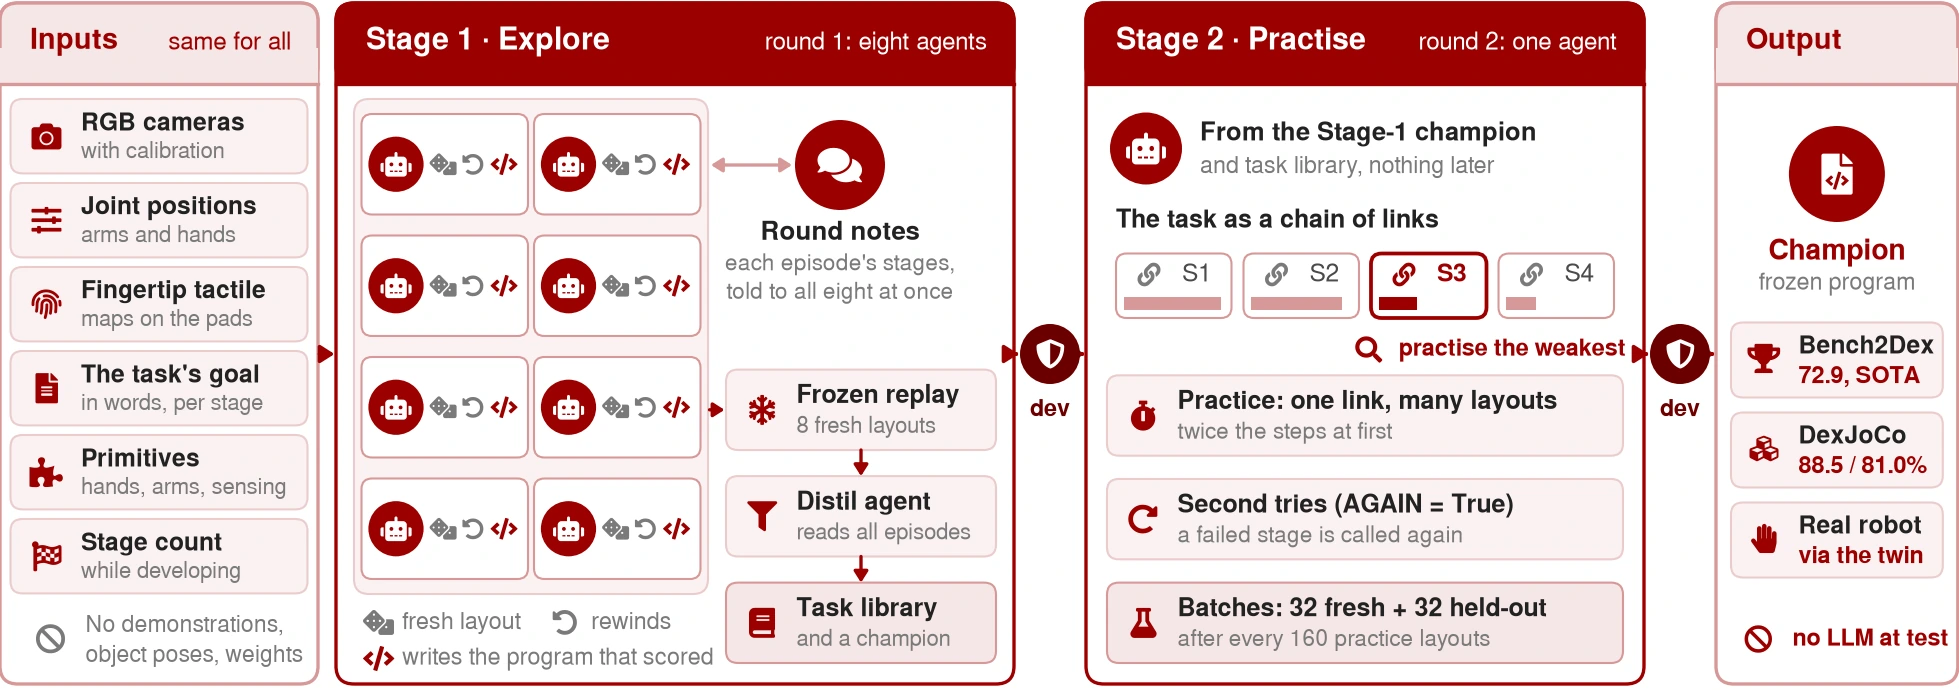
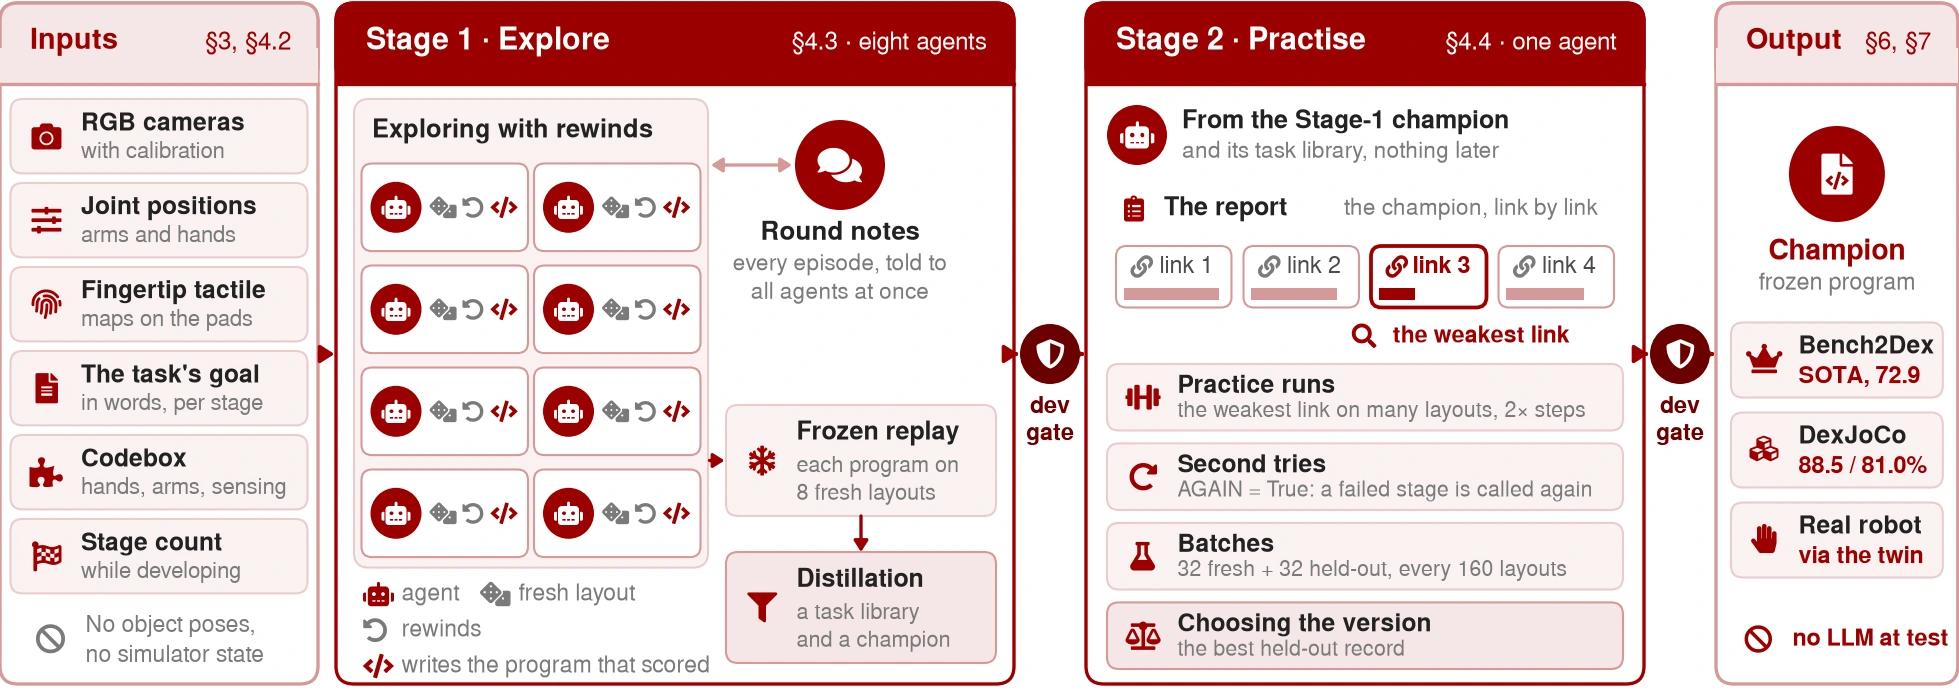
Deploying to gh-pages from @ vme0522/vme0522.github.io@140af1708d9b682ef3aa099a983bce7b14fc9920 🚀

diff --git a/blog/2024/tabs/index.html b/blog/2024/tabs/index.html
@@ -17,16 +17,16 @@ Content 2
 <span class="cp">{%</span><span class="w"> </span><span class="nt">endtab</span><span class="w"> </span><span class="cp">%}</span>
 
 <span class="cp">{%</span><span class="w"> </span><span class="nt">endtabs</span><span class="w"> </span><span class="cp">%}</span>
-</code></pre></div></div> <p>With this you can generate visualizations like:</p> <ul id="log" class="tab" data-tab="9b17acdc-4963-412e-af19-0ab262963fe4" data-name="log"> <li class="active" id="log-php"> <a href="#">php </a> </li> <li id="log-js"> <a href="#">js </a> </li> <li id="log-ruby"> <a href="#">ruby </a> </li> </ul> <ul class="tab-content" id="9b17acdc-4963-412e-af19-0ab262963fe4" data-name="log"> <li class="active"> <div class="language-php highlighter-rouge"><div class="highlight"><pre class="highlight"><code><span class="nb">var_dump</span><span class="p">(</span><span class="s1">'hello'</span><span class="p">);</span>
+</code></pre></div></div> <p>With this you can generate visualizations like:</p> <ul id="log" class="tab" data-tab="36b4afe7-2373-40aa-8585-77688bcb33ed" data-name="log"> <li class="active" id="log-php"> <a href="#">php </a> </li> <li id="log-js"> <a href="#">js </a> </li> <li id="log-ruby"> <a href="#">ruby </a> </li> </ul> <ul class="tab-content" id="36b4afe7-2373-40aa-8585-77688bcb33ed" data-name="log"> <li class="active"> <div class="language-php highlighter-rouge"><div class="highlight"><pre class="highlight"><code><span class="nb">var_dump</span><span class="p">(</span><span class="s1">'hello'</span><span class="p">);</span>
 </code></pre></div></div> </li> <li> <div class="language-javascript highlighter-rouge"><div class="highlight"><pre class="highlight"><code><span class="nx">console</span><span class="p">.</span><span class="nf">log</span><span class="p">(</span><span class="dl">"</span><span class="s2">hello</span><span class="dl">"</span><span class="p">);</span>
 </code></pre></div></div> </li> <li> <div class="language-javascript highlighter-rouge"><div class="highlight"><pre class="highlight"><code><span class="nx">pputs</span> <span class="dl">'</span><span class="s1">hello</span><span class="dl">'</span>
-</code></pre></div></div> </li> </ul> <h2 id="another-example">Another example</h2> <ul id="data-struct" class="tab" data-tab="8a59ad11-cd54-4203-ae6b-2c7b11370567" data-name="data-struct"> <li class="active" id="data-struct-yaml"> <a href="#">yaml </a> </li> <li id="data-struct-json"> <a href="#">json </a> </li> </ul> <ul class="tab-content" id="8a59ad11-cd54-4203-ae6b-2c7b11370567" data-name="data-struct"> <li class="active"> <div class="language-yaml highlighter-rouge"><div class="highlight"><pre class="highlight"><code><span class="na">hello</span><span class="pi">:</span>
+</code></pre></div></div> </li> </ul> <h2 id="another-example">Another example</h2> <ul id="data-struct" class="tab" data-tab="f9746e25-7c31-486e-bc2a-90c411123d5d" data-name="data-struct"> <li class="active" id="data-struct-yaml"> <a href="#">yaml </a> </li> <li id="data-struct-json"> <a href="#">json </a> </li> </ul> <ul class="tab-content" id="f9746e25-7c31-486e-bc2a-90c411123d5d" data-name="data-struct"> <li class="active"> <div class="language-yaml highlighter-rouge"><div class="highlight"><pre class="highlight"><code><span class="na">hello</span><span class="pi">:</span>
   <span class="pi">-</span> <span class="s2">"</span><span class="s">whatsup"</span>
   <span class="pi">-</span> <span class="s2">"</span><span class="s">hi"</span>
 </code></pre></div></div> </li> <li> <div class="language-json highlighter-rouge"><div class="highlight"><pre class="highlight"><code><span class="p">{</span><span class="w">
   </span><span class="nl">"hello"</span><span class="p">:</span><span class="w"> </span><span class="p">[</span><span class="s2">"whatsup"</span><span class="p">,</span><span class="w"> </span><span class="s2">"hi"</span><span class="p">]</span><span class="w">
 </span><span class="p">}</span><span class="w">
-</span></code></pre></div></div> </li> </ul> <h2 id="tabs-for-something-else">Tabs for something else</h2> <ul id="something-else" class="tab" data-tab="d1dd1db1-046a-4527-8284-c4e4a0ee7917" data-name="something-else"> <li class="active" id="something-else-text"> <a href="#">text </a> </li> <li id="something-else-quote"> <a href="#">quote </a> </li> <li id="something-else-list"> <a href="#">list </a> </li> </ul> <ul class="tab-content" id="d1dd1db1-046a-4527-8284-c4e4a0ee7917" data-name="something-else"> <li class="active"> <p>Regular text</p> </li> <li> <blockquote> <p>A quote</p> </blockquote> </li> <li> <p>Hipster list</p> <ul> <li>brunch</li> <li>fixie</li> <li>raybans</li> <li>messenger bag</li> </ul> </li> </ul> </div> </article> <br> <hr> <br> <h2 class="text-3xl font-semibold mb-4 mt-12">Enjoy Reading This Article?</h2> <p class="mb-2">Here are some more articles you might like to read next:</p> <ul class="list-disc pl-7 my-3 space-y-2 marker:text-[var(--global-theme-color)]"> <li class="leading-relaxed"> <a class="underline decoration-1 hover:text-[var(--global-hover-color)]" href="https://blog.google/technology/ai/google-gemini-update-flash-ai-assistant-io-2024/" target="_blank" rel="noopener noreferrer">Google Gemini updates: Flash 1.5, Gemma 2 and Project Astra</a> <svg width="1rem" height="1rem" viewbox="0 0 30 30" xmlns="http://www.w3.org/2000/svg" aria-hidden="true"> <path d="M17 13.5v6H5v-12h6m3-3h6v6m0-6-9 9" class="icon_svg-stroke" stroke="#999" stroke-width="1.5" fill="none" fill-rule="evenodd" stroke-linecap="round" stroke-linejoin="round"></path> </svg> </li> <li class="leading-relaxed"> <a class="underline decoration-1 hover:text-[var(--global-hover-color)]" href="https://medium.com/@al-folio/displaying-external-posts-on-your-al-folio-blog-b60a1d241a0a?source=rss-17feae71c3c4------2" target="_blank" rel="noopener noreferrer">Displaying External Posts on Your al-folio Blog</a> <svg width="1rem" height="1rem" viewbox="0 0 30 30" xmlns="http://www.w3.org/2000/svg" aria-hidden="true"> <path d="M17 13.5v6H5v-12h6m3-3h6v6m0-6-9 9" class="icon_svg-stroke" stroke="#999" stroke-width="1.5" fill="none" fill-rule="evenodd" stroke-linecap="round" stroke-linejoin="round"></path> </svg> </li> <li class="leading-relaxed"> <a class="underline decoration-1 hover:text-[var(--global-hover-color)]" href="/blog/2025/marimo/">a post with marimo snippets</a> </li> <li class="leading-relaxed"> <a class="underline decoration-1 hover:text-[var(--global-hover-color)]" href="/blog/2025/plotly/">a post with plotly.js</a> </li> <li class="leading-relaxed"> <a class="underline decoration-1 hover:text-[var(--global-hover-color)]" href="/blog/2024/photo-gallery/">a post with image galleries</a> </li> <li class="leading-relaxed"> <a class="underline decoration-1 hover:text-[var(--global-hover-color)]" href="/blog/2024/typograms/">a post with typograms</a> </li> <li class="leading-relaxed"> <a class="underline decoration-1 hover:text-[var(--global-hover-color)]" href="/blog/2024/post-citation/">a post that can be cited</a> </li> <li class="leading-relaxed"> <a class="underline decoration-1 hover:text-[var(--global-hover-color)]" href="/blog/2024/pseudocode/">a post with pseudo code</a> </li> <li class="leading-relaxed"> <a class="underline decoration-1 hover:text-[var(--global-hover-color)]" href="/blog/2024/code-diff/">a post with code diff</a> </li> <li class="leading-relaxed"> <a class="underline decoration-1 hover:text-[var(--global-hover-color)]" href="/blog/2024/advanced-images/">a post with advanced image components</a> </li> </ul> </div> </div> <footer class="sticky-bottom mt-5" role="contentinfo"> <div class="container"> © Copyright 2026 Feixiang Ruan. Powered by <a href="https://jekyllrb.com/" target="_blank" rel="external nofollow noopener">Jekyll</a> with <a href="https://github.com/alshedivat/al-folio" rel="external nofollow noopener" target="_blank">al-folio</a>. Hosted by <a href="https://pages.github.com/" target="_blank" rel="external nofollow noopener">GitHub Pages</a>. </div> </footer> <script>
+</span></code></pre></div></div> </li> </ul> <h2 id="tabs-for-something-else">Tabs for something else</h2> <ul id="something-else" class="tab" data-tab="193bee96-5826-4f5b-9a32-575b445bbc2a" data-name="something-else"> <li class="active" id="something-else-text"> <a href="#">text </a> </li> <li id="something-else-quote"> <a href="#">quote </a> </li> <li id="something-else-list"> <a href="#">list </a> </li> </ul> <ul class="tab-content" id="193bee96-5826-4f5b-9a32-575b445bbc2a" data-name="something-else"> <li class="active"> <p>Regular text</p> </li> <li> <blockquote> <p>A quote</p> </blockquote> </li> <li> <p>Hipster list</p> <ul> <li>brunch</li> <li>fixie</li> <li>raybans</li> <li>messenger bag</li> </ul> </li> </ul> </div> </article> <br> <hr> <br> <h2 class="text-3xl font-semibold mb-4 mt-12">Enjoy Reading This Article?</h2> <p class="mb-2">Here are some more articles you might like to read next:</p> <ul class="list-disc pl-7 my-3 space-y-2 marker:text-[var(--global-theme-color)]"> <li class="leading-relaxed"> <a class="underline decoration-1 hover:text-[var(--global-hover-color)]" href="https://blog.google/technology/ai/google-gemini-update-flash-ai-assistant-io-2024/" target="_blank" rel="noopener noreferrer">Google Gemini updates: Flash 1.5, Gemma 2 and Project Astra</a> <svg width="1rem" height="1rem" viewbox="0 0 30 30" xmlns="http://www.w3.org/2000/svg" aria-hidden="true"> <path d="M17 13.5v6H5v-12h6m3-3h6v6m0-6-9 9" class="icon_svg-stroke" stroke="#999" stroke-width="1.5" fill="none" fill-rule="evenodd" stroke-linecap="round" stroke-linejoin="round"></path> </svg> </li> <li class="leading-relaxed"> <a class="underline decoration-1 hover:text-[var(--global-hover-color)]" href="https://medium.com/@al-folio/displaying-external-posts-on-your-al-folio-blog-b60a1d241a0a?source=rss-17feae71c3c4------2" target="_blank" rel="noopener noreferrer">Displaying External Posts on Your al-folio Blog</a> <svg width="1rem" height="1rem" viewbox="0 0 30 30" xmlns="http://www.w3.org/2000/svg" aria-hidden="true"> <path d="M17 13.5v6H5v-12h6m3-3h6v6m0-6-9 9" class="icon_svg-stroke" stroke="#999" stroke-width="1.5" fill="none" fill-rule="evenodd" stroke-linecap="round" stroke-linejoin="round"></path> </svg> </li> <li class="leading-relaxed"> <a class="underline decoration-1 hover:text-[var(--global-hover-color)]" href="/blog/2025/marimo/">a post with marimo snippets</a> </li> <li class="leading-relaxed"> <a class="underline decoration-1 hover:text-[var(--global-hover-color)]" href="/blog/2025/plotly/">a post with plotly.js</a> </li> <li class="leading-relaxed"> <a class="underline decoration-1 hover:text-[var(--global-hover-color)]" href="/blog/2024/photo-gallery/">a post with image galleries</a> </li> <li class="leading-relaxed"> <a class="underline decoration-1 hover:text-[var(--global-hover-color)]" href="/blog/2024/typograms/">a post with typograms</a> </li> <li class="leading-relaxed"> <a class="underline decoration-1 hover:text-[var(--global-hover-color)]" href="/blog/2024/post-citation/">a post that can be cited</a> </li> <li class="leading-relaxed"> <a class="underline decoration-1 hover:text-[var(--global-hover-color)]" href="/blog/2024/pseudocode/">a post with pseudo code</a> </li> <li class="leading-relaxed"> <a class="underline decoration-1 hover:text-[var(--global-hover-color)]" href="/blog/2024/code-diff/">a post with code diff</a> </li> <li class="leading-relaxed"> <a class="underline decoration-1 hover:text-[var(--global-hover-color)]" href="/blog/2024/advanced-images/">a post with advanced image components</a> </li> </ul> </div> </div> <footer class="sticky-bottom mt-5" role="contentinfo"> <div class="container"> © Copyright 2026 Feixiang Ruan. Powered by <a href="https://jekyllrb.com/" target="_blank" rel="external nofollow noopener">Jekyll</a> with <a href="https://github.com/alshedivat/al-folio" rel="external nofollow noopener" target="_blank">al-folio</a>. Hosted by <a href="https://pages.github.com/" target="_blank" rel="external nofollow noopener">GitHub Pages</a>. </div> </footer> <script>
   window.alFolio = {
     compatBootstrap: false
   };

diff --git a/PyRUA-Dex/index.html b/PyRUA-Dex/index.html
@@ -240,8 +240,8 @@
     </div>
 
     <figure class="fig rv">
-      <a class="zoom" href="static/images/paper/fig-method.webp"><img src="static/images/paper/fig-method.webp" alt="Overview of PyRUA-Dex: inputs, Stage 1 explore with eight parallel agents, Stage 2 practise on the weakest link, and the dev gate" width="1959" height="690" loading="lazy"></a>
-      <figcaption><b>PyRUA-Dex.</b> <b>Stage 1</b> (explore): eight agents work one task in parallel with rewinds and stage feedback; a distilling agent turns their frozen programs into a task library and a champion. <b>Stage 2</b> (practise): one agent practises the champion's weakest link over many layouts and lets failed stages try again. <b>Dev gate</b>: a new champion replaces the old one only if it is no worse on 32 development layouts. The champion runs frozen, with no language model.</figcaption>
+      <a class="zoom" href="static/images/paper/fig-method.webp?v=20261124"><img src="static/images/paper/fig-method.webp?v=20261124" alt="Overview of PyRUA-Dex: the inputs; Stage 1, exploring with rewinds, round notes, frozen replay and distillation; Stage 2, the report, practice runs, second tries, batches and choosing the version; the dev gate; the frozen champion" width="1959" height="690" loading="lazy"></a>
+      <figcaption><b>PyRUA-Dex.</b> Every box is named after the paragraph of the paper's method section that describes it. <b>Stage 1</b> (explore): eight agents explore one task in parallel with rewinds, round notes tell every episode to all of them at once, and the programs that scored are replayed frozen and distilled into a task library and a champion. <b>Stage 2</b> (practise): one agent reads the champion's report link by link, practises the weakest link on many layouts, lets failed stages try again, measures each version in batches and keeps the one with the best held-out record. <b>Dev gate</b>: a new champion replaces the old one only if it is no worse on 32 dev layouts. The champion runs frozen, with no language model.</figcaption>
     </figure>
 
     <h3 class="h3 rv"><svg class="ic"><use href="#i-layers"/></svg>Two stages, one gate</h3>
@@ -480,8 +480,8 @@
 
     <h3 class="h3 rv"><svg class="ic"><use href="#i-sim"/></svg>Real to sim to real</h3>
     <figure class="fig rv">
-      <a class="zoom" href="static/images/paper/fig-r2s2r.webp?v=20261123b"><img src="static/images/paper/fig-r2s2r.webp?v=20261123b" alt="Real to sim to real on the rig: what the twin shares with the robot, robot first (head and wrist cameras with the twin's outlines on the robot's pictures, the hands' drives, fingertip touch, objects, the user's instruction), learning in the twin, the frozen programs on the robot, and the dev layouts completed after each round" width="1959" height="858" loading="lazy"></a>
-      <figcaption><b>Real to sim to real on the rig.</b> (1) What the twin shares with the robot, the robot's view first: cameras, the hands' drives, fingertip touch, objects and the user's instructions; (2) learning in the twin, Stage 1 once and Stage 2 round after round; (3) the frozen programs on the robot; (4) dev layouts completed after each round, the twin adjusted between rounds.</figcaption>
+      <a class="zoom" href="static/images/paper/fig-r2s2r.webp?v=20261124"><img src="static/images/paper/fig-r2s2r.webp?v=20261124" alt="Real to sim to real on the rig: the twin built from the robot (head and wrist cameras, the basket from a phone video), the loop in which the champion runs frozen on the robot and the robot's feedback adjusts the twin, and the dev layouts completed after each round" width="1959" height="615" loading="lazy"></a>
+      <figcaption><b>Real to sim to real on the rig.</b> (a) The twin is built from the robot: the robot's head and right wrist cameras beside the twin's at the same joints, and the basket from the user's phone video to the twin's model. (b) Agents learn in the twin, Stage 1 once and Stage 2 round after round; the champion runs frozen on the robot (cube to basket: the twin's render and the robot's film at the same point of the task), and what the robot shows and the user's instructions adjust the twin before the next round. (c) Dev layouts completed (of 32) after Stage 1 and after each round of Stage 2; ×: the twin was adjusted before that round. The y axis is broken below 20.</figcaption>
     </figure>
 
     <h3 class="h3 rv"><svg class="ic"><use href="#i-sim"/></svg>Learning on the rig</h3>
@@ -497,7 +497,7 @@
         <div class="dumb-row" style="--a:3;--b:14"><div class="dumb-name"><b>Write “Dex”</b><small>take the brush and write “Dex” on the cloth · 1 round</small></div><div class="track2"><span class="seg"></span><span class="pt" tabindex="0" data-v="3 / 32" data-l="Write “Dex” · Stage 1"></span><span class="pt s2" tabindex="0" data-v="14 / 32" data-l="Write “Dex” · Stage 2"></span></div><div class="dumb-v">3 → <b>14</b></div></div>
         <div class="dumb-group">Piano</div>
         <div class="dumb-row" style="--a:29;--b:32"><div class="dumb-name"><b>Ode to Joy</b><small>the right hand, eight phrases · 5 rounds</small></div><div class="track2"><span class="seg"></span><span class="pt" tabindex="0" data-v="29 / 32" data-l="Piano, Ode to Joy · Stage 1"></span><span class="pt s2" tabindex="0" data-v="32 / 32" data-l="Piano, Ode to Joy · Stage 2"></span></div><div class="dumb-v">29 → <b>32</b></div></div>
-        <div class="dumb-row" style="--a:29;--b:31"><div class="dumb-name"><b>Twinkle, Twinkle</b><small>two hands, tune and bass, six phrases · 5 rounds</small></div><div class="track2"><span class="seg"></span><span class="pt" tabindex="0" data-v="29 / 32" data-l="Piano, Twinkle, Twinkle · Stage 1"></span><span class="pt s2" tabindex="0" data-v="31 / 32" data-l="Piano, Twinkle, Twinkle · Stage 2"></span></div><div class="dumb-v">29 → <b>31</b></div></div>
+        <div class="dumb-row" style="--a:29;--b:31"><div class="dumb-name"><b>Twinkle, Twinkle</b><small>two hands, tune and bass, six phrases · 4 rounds</small></div><div class="track2"><span class="seg"></span><span class="pt" tabindex="0" data-v="29 / 32" data-l="Piano, Twinkle, Twinkle · Stage 1"></span><span class="pt s2" tabindex="0" data-v="31 / 32" data-l="Piano, Twinkle, Twinkle · Stage 2"></span></div><div class="dumb-v">29 → <b>31</b></div></div>
         <div class="dumb-row" style="--a:23;--b:29"><div class="dumb-name"><b>Little Jumping Frog</b><small>two hands, tune and bass, eight phrases · 1 round</small></div><div class="track2"><span class="seg"></span><span class="pt" tabindex="0" data-v="23 / 32" data-l="Piano, Little Jumping Frog · Stage 1"></span><span class="pt s2" tabindex="0" data-v="29 / 32" data-l="Piano, Little Jumping Frog · Stage 2"></span></div><div class="dumb-v">23 → <b>29</b></div></div>
         <div class="dumb-axis" aria-hidden="true"><span class="axis-pad"></span><div class="axis-ticks"><span style="left:0%">0</span><span style="left:25%">8</span><span style="left:50%">16</span><span style="left:75%">24</span><span style="left:100%">32</span></div><span class="axis-unit">of 32</span></div>
       </div>
@@ -512,7 +512,7 @@
             <tr><td>Write “Dex”</td><td>take the brush and write “Dex” on the cloth</td><td class="num">1500</td><td class="num">3</td><td class="num">14</td><td class="num">1</td></tr>
             <tr class="grp"><td colspan="6">Piano</td></tr>
             <tr><td>Ode to Joy</td><td>the right hand, eight phrases</td><td class="num">4500</td><td class="num">29</td><td class="num">32</td><td class="num">5</td></tr>
-            <tr><td>Twinkle, Twinkle</td><td>two hands, tune and bass, six phrases</td><td class="num">4500</td><td class="num">29</td><td class="num">31</td><td class="num">5</td></tr>
+            <tr><td>Twinkle, Twinkle</td><td>two hands, tune and bass, six phrases</td><td class="num">4500</td><td class="num">29</td><td class="num">31</td><td class="num">4</td></tr>
             <tr><td>Little Jumping Frog</td><td>two hands, tune and bass, eight phrases</td><td class="num">6000</td><td class="num">23</td><td class="num">29</td><td class="num">1</td></tr>
             <tr><td><b>Total</b></td><td></td><td></td><td class="num"><b>119 / 192</b></td><td class="num"><b>168 / 192</b></td><td></td></tr>
             <tr class="grp"><td colspan="6">Piano, same-family skill (30 min to 1 h of iteration)</td></tr>
@@ -580,8 +580,8 @@
       <div class="nbox rv"><b>43.6% → 61.7%</b><span>dev layouts completed, against formal success 44.6% → 60.6%: the gate predicts the benchmark</span></div>
     </div>
     <figure class="fig rv">
-      <a class="zoom" href="static/images/paper/fig-stage2.webp"><img src="static/images/paper/fig-stage2.webp" alt="Why practising works: how Stage 1 programs failed, held-out completions batch by batch, and task 12 link by link" width="1959" height="645" loading="lazy"></a>
-      <figcaption><b>Why practising works.</b> (a) How the 341 failed dev runs of the Stage 1 champions ended, on the 22 tasks Stage 1 completed at least once (704 runs); the 128 runs of the 4 tasks it never completed are not included. (b) Held-out completions (of 32), batch by batch through Stage 2; batch 0 is the Stage 1 champion. (c) Task 12: held-out layouts that reached each stage.</figcaption>
+      <a class="zoom" href="static/images/paper/fig-stage2.webp?v=20261124"><img src="static/images/paper/fig-stage2.webp?v=20261124" alt="Why practising works: how Stage 1 programs failed, held-out completions batch by batch, and task 12 link by link" width="1959" height="645" loading="lazy"></a>
+      <figcaption><b>Why practising works.</b> (a) How the 341 failed dev runs of the Stage 1 champions ended, on the 22 tasks Stage 1 completed at least once (704 runs); the 128 runs of the 4 tasks it never completed are not included. Dark bars: the two main ways. (b) Held-out completions (of 32), batch by batch through Stage 2: batch 0 is the Stage 1 champion (light dot, dotted line at its level), small dots are Stage 2 batches, and the large dot is the batch that became the champion. (c) Task 12: held-out layouts that reached each stage, Stage 1 and Stage 2 champion.</figcaption>
     </figure>
 
     <h3 class="h3 rv"><svg class="ic"><use href="#i-bolt"/></svg>Frozen programs against the same model online</h3>
@@ -668,8 +668,8 @@
     </div>
 
     <figure class="fig rv" style="margin-top:22px">
-      <a class="zoom" href="static/images/paper/fig-dexjoco.webp"><img src="static/images/paper/fig-dexjoco.webp" alt="DexJoCo results: per-task success rate of the Stage 1 and Stage 2 programs under rand-obj and rand-full, and rand-full success rate against the execution budget" width="1959" height="726" loading="lazy"></a>
-      <figcaption><b>DexJoCo results.</b> (a), (b) Per-task success rate of the Stage 1 and Stage 2 programs, with the best trained policy (grey tick). (c) rand-full success rate against the execution budget.</figcaption>
+      <a class="zoom" href="static/images/paper/fig-dexjoco.webp?v=20261124"><img src="static/images/paper/fig-dexjoco.webp?v=20261124" alt="DexJoCo results: per-task success rate of the Stage 1 and Stage 2 programs, two bars per task, under rand-obj and rand-full, and rand-full success rate against the execution budget" width="1959" height="726" loading="lazy"></a>
+      <figcaption><b>DexJoCo results.</b> (a) rand-obj and (b) rand-full success rate per task: the Stage 1 program (light bar) above the Stage 2 program (dark bar), with the averages in the panel titles, and the best trained policy on the task (grey tick). Triangles: Stage 2 above it, on all ten tasks it ran on; “not run”: Stage 2 did not run on the photograph task. (c) rand-full success rate against the execution budget; the frozen programs spend no tokens at test time, the dotted line marks where the online agent matches them, and the diamond is the best trained policy, π<sub>0.5</sub>.</figcaption>
     </figure>
 
     <div class="card twin-card rv">

diff --git a/assets/jupyter/blog.ipynb.html b/assets/jupyter/blog.ipynb.html
@@ -1,4 +1,4 @@
-<!DOCTYPE html> <html lang="en"> <head><meta charset="utf-8"/> <meta content="width=device-width, initial-scale=1.0" name="viewport"/> <title>jekyll-jupyter-notebook20261123-3311-604wg2</title><script src="https://cdnjs.cloudflare.com/ajax/libs/require.js/2.1.10/require.min.js"></script> <style type="text/css">
+<!DOCTYPE html> <html lang="en"> <head><meta charset="utf-8"/> <meta content="width=device-width, initial-scale=1.0" name="viewport"/> <title>jekyll-jupyter-notebook20261123-3356-l5g3wp</title><script src="https://cdnjs.cloudflare.com/ajax/libs/require.js/2.1.10/require.min.js"></script> <style type="text/css">
     pre { line-height: 125%; }
 td.linenos .normal { color: inherit; background-color: transparent; padding-left: 5px; padding-right: 5px; }
 span.linenos { color: inherit; background-color: transparent; padding-left: 5px; padding-right: 5px; }
